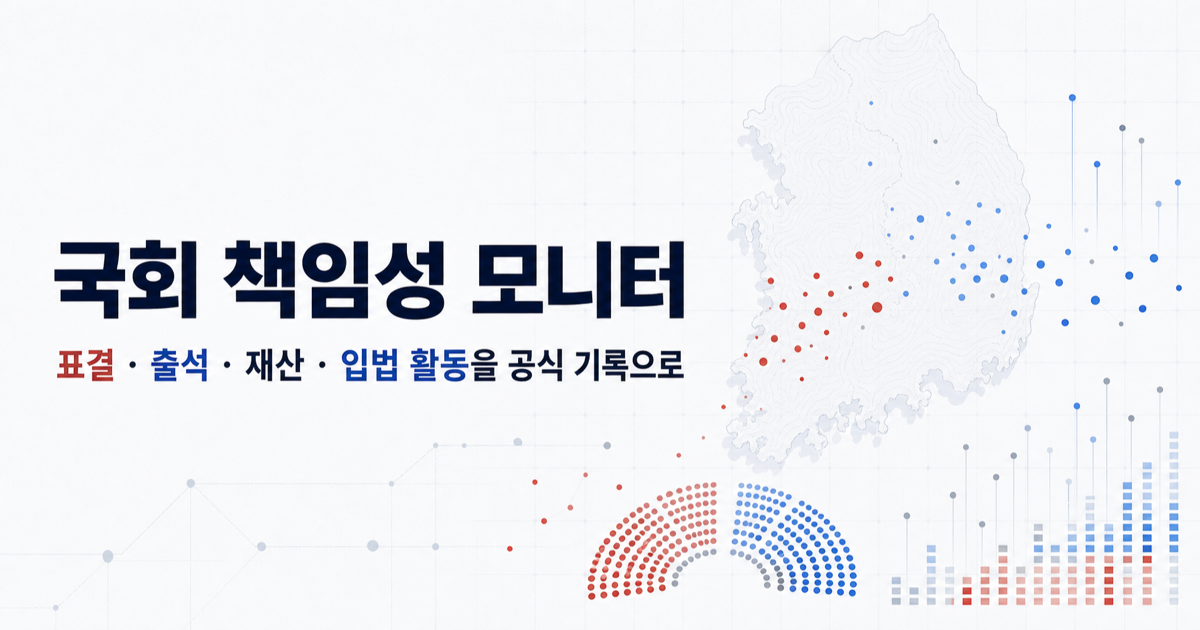
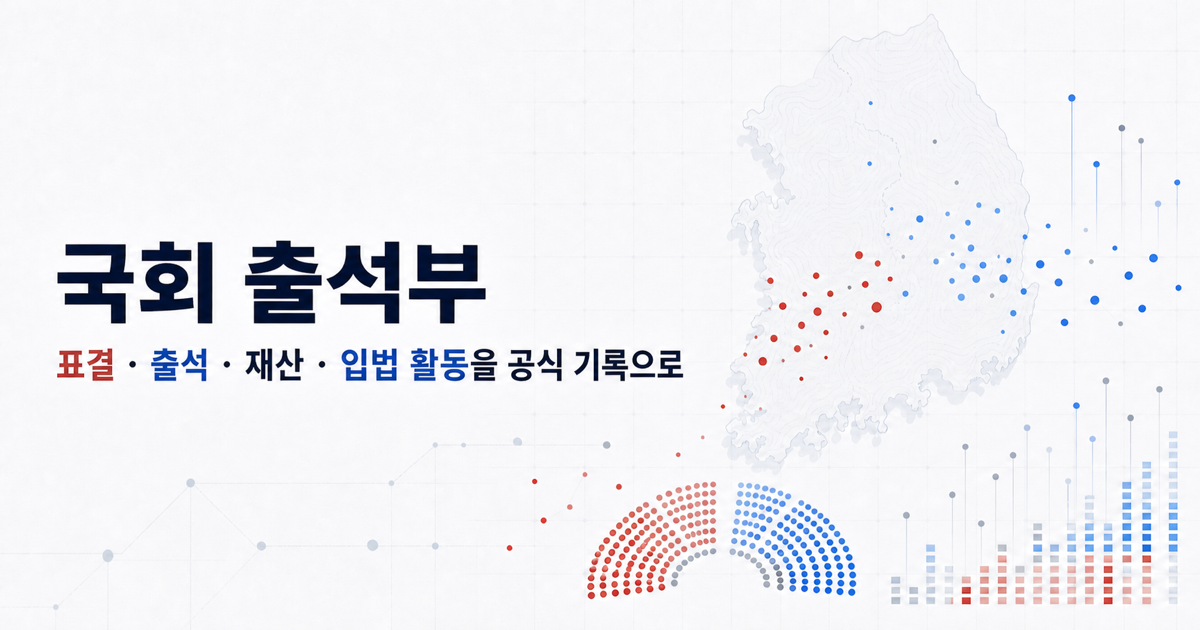
feat: rename service to 국회 출석부

diff --git a/apps/web/index.html b/apps/web/index.html
@@ -6,15 +6,15 @@
     <meta name="theme-color" content="#f7f9fb" />
     <link rel="icon" type="image/svg+xml" href="./favicon.svg?v=3" />
     <link rel="canonical" href="https://kuil09.github.io/lawmaker-monitor/" />
-    <title>국회 책임성 모니터</title>
+    <title>국회 출석부</title>
     <meta
       name="description"
-      content="표결·출석·재산·입법 활동을 공식 기록으로 확인하는 국회 책임성 모니터입니다."
+      content="표결·출석·재산·입법 활동을 공식 기록으로 확인하는 국회 출석부입니다."
     />
     <meta property="og:type" content="website" />
     <meta property="og:locale" content="ko_KR" />
-    <meta property="og:site_name" content="국회 책임성 모니터" />
-    <meta property="og:title" content="국회 책임성 모니터" />
+    <meta property="og:site_name" content="국회 출석부" />
+    <meta property="og:title" content="국회 출석부" />
     <meta
       property="og:description"
       content="표결·출석·재산·입법 활동을 공식 기록으로 확인하세요."
@@ -31,10 +31,10 @@
     <meta property="og:image:height" content="630" />
     <meta
       property="og:image:alt"
-      content="대한민국 지도와 국회 의석, 활동 데이터 시각화로 구성된 국회 책임성 모니터 공유 카드"
+      content="대한민국 지도와 국회 의석, 활동 데이터 시각화로 구성된 국회 출석부 공유 카드"
     />
     <meta name="twitter:card" content="summary_large_image" />
-    <meta name="twitter:title" content="국회 책임성 모니터" />
+    <meta name="twitter:title" content="국회 출석부" />
     <meta
       name="twitter:description"
       content="표결·출석·재산·입법 활동을 공식 기록으로 확인하세요."

diff --git a/tests/ui/app-ui.test.ts b/tests/ui/app-ui.test.ts
@@ -60,7 +60,7 @@ async function openHomeFlow(viewportName: string): Promise<void> {
       `
     });
 
-    await page.getByRole("heading", { name: "실시간 국회 감시 큐" }).waitFor();
+    await page.getByRole("heading", { name: "실시간 국회 출석부" }).waitFor();
     await page.getByRole("region", { name: "지역별 결석률 분포" }).waitFor();
     expect(new URL(page.url()).searchParams.has("ui")).toBe(false);
     expect(await page.locator(".v2-global-nav").count()).toBe(1);
@@ -286,7 +286,7 @@ async function openHomeFlow(viewportName: string): Promise<void> {
 
     await page.getByRole("button", { name: "홈으로" }).click();
     await expect.poll(() => new URL(page.url()).hash).toBe("");
-    await page.getByRole("heading", { name: "실시간 국회 감시 큐" }).waitFor();
+    await page.getByRole("heading", { name: "실시간 국회 출석부" }).waitFor();
 
     expect(getUnexpectedBrowserIssues(issues)).toEqual([]);
   } finally {
@@ -682,7 +682,7 @@ const v2Routes = [
   {
     id: "home",
     hash: "",
-    heading: "실시간 국회 감시 큐"
+    heading: "실시간 국회 출석부"
   },
   {
     id: "calendar",
@@ -983,7 +983,7 @@ async function openV2RouteFlow(viewportName: string): Promise<void> {
     await page.goto(`${appUrl}/?ui=v1`, {
       waitUntil: "networkidle"
     });
-    await page.getByRole("heading", { name: "실시간 국회 감시 큐" }).waitFor();
+    await page.getByRole("heading", { name: "실시간 국회 출석부" }).waitFor();
   } finally {
     await context.close();
   }

diff --git a/apps/web/src/components/WatchQueueSnapshot.tsx b/apps/web/src/components/WatchQueueSnapshot.tsx
@@ -460,8 +460,8 @@ export function WatchQueueSnapshot({
     >
       <header className="watch-queue-snapshot__heading">
         <div>
-          <p>WATCH QUEUE · 최근 수집 기록</p>
-          <h2 id="watch-queue-snapshot-title">시민 감시 큐</h2>
+          <p>국회 출석부 · 최근 수집 기록</p>
+          <h2 id="watch-queue-snapshot-title">국회 출석부</h2>
         </div>
         <p>
           최근 수집된 공개 기록을 변화·결과·행위 부재 기준으로 확인하고 공식
@@ -475,7 +475,7 @@ export function WatchQueueSnapshot({
       </header>
 
       <div className="watch-queue-workbench">
-        <aside className="watch-queue-filters" aria-label="감시 큐 필터">
+        <aside className="watch-queue-filters" aria-label="국회 출석부 필터">
           <div>
             <h3>증거 상태</h3>
             {filterLabels.map((filter) => (
@@ -623,7 +623,7 @@ export function WatchQueueSnapshot({
           ) : null}
         </div>
 
-        <aside className="watch-queue-briefing" aria-label="감시 큐 브리핑">
+        <aside className="watch-queue-briefing" aria-label="국회 출석부 브리핑">
           <section>
             <p>HOT ISSUES</p>
             <h3>지금 주목할 변화</h3>

diff --git a/apps/web/src/v2/V2GlobalNav.tsx b/apps/web/src/v2/V2GlobalNav.tsx
@@ -42,7 +42,7 @@ type PrimaryNavigationItem = {
 const primaryNavigationItems: PrimaryNavigationItem[] = [
   {
     index: "01",
-    label: "감시 큐",
+    label: "국회 출석부",
     accessibleLabel: "오늘의 변화",
     href: "#",
     target: "home",
@@ -156,14 +156,14 @@ export function V2GlobalNav({
           <a
             className="v2-global-nav__brand"
             href="#"
-            aria-label="국회 책임성 모니터 홈"
+            aria-label="국회 출석부 홈"
             onClick={(event) => handleNavigation(event, "home")}
           >
             <span className="v2-global-nav__brand-lockup" aria-hidden="true">
               <span className="v2-global-nav__brand-kicker">
-                국회 책임성 모니터
+                국회 공개 기록
               </span>
-              <strong>감시 큐</strong>
+              <strong>국회 출석부</strong>
             </span>
           </a>
 

diff --git a/apps/web/src/v2/V2App.tsx b/apps/web/src/v2/V2App.tsx
@@ -67,7 +67,7 @@ function useRouteAccessibility(route: RouteState) {
   useEffect(() => {
     const pageLabel =
       route.route === "home"
-        ? "감시 큐"
+        ? "국회 출석부"
         : route.route === "calendar"
           ? "의원 대장"
           : route.route === "distribution"
@@ -78,7 +78,7 @@ function useRouteAccessibility(route: RouteState) {
                 ? "변화 전후"
                 : "지역 감시";
 
-    document.title = `${pageLabel} · 감시 큐`;
+    document.title = `${pageLabel} · 국회 출석부`;
     const shouldMoveFocus =
       previousRouteRef.current !== null &&
       previousRouteRef.current !== route.route;

diff --git a/tests/web/v2-observatory.test.tsx b/tests/web/v2-observatory.test.tsx
@@ -125,7 +125,7 @@ describe("v2 observatory", () => {
     );
 
     const watchQueueHeading = screen.getByRole("heading", {
-      name: "시민 감시 큐"
+      name: "국회 출석부"
     });
     const explorerHeading = screen.getByRole("heading", {
       name: "전국 지표 탐색"
@@ -349,7 +349,7 @@ describe("v2 observatory", () => {
     );
 
     const brandLink = screen.getByRole("link", {
-      name: "국회 책임성 모니터 홈"
+      name: "국회 출석부 홈"
     });
     expect(brandLink.querySelector("svg")).not.toBeInTheDocument();
     expect(screen.getByRole("link", { name: "오늘의 변화" })).toHaveAttribute(

diff --git a/apps/web/src/v2/V2ObservatoryPage.tsx b/apps/web/src/v2/V2ObservatoryPage.tsx
@@ -676,10 +676,10 @@ export function V2ObservatoryPage({
       <header className="v2-observatory__hero">
         <div>
           <p className="v2-observatory__eyebrow">
-            WATCH QUEUE · {assemblyLabel} 공식 기록
+            국회 출석부 · {assemblyLabel} 공식 기록
           </p>
           <h1 className="v2-observatory__title" tabIndex={-1}>
-            실시간 국회 감시 큐
+            실시간 국회 출석부
           </h1>
           <p className="v2-observatory__intro">
             최근 발언·의안·표결의 변화와 행위 부재를 근거 단위로 비교하고

diff --git a/apps/web/src/components/MemberPerformanceShareCard.tsx b/apps/web/src/components/MemberPerformanceShareCard.tsx
@@ -101,7 +101,7 @@ export function MemberPerformanceShareCard({
               role="img"
               aria-label={`${member.name} 의원 실적 카드 미리보기`}
             >
-              <small>WATCH QUEUE · 의원 기록 카드</small>
+              <small>국회 출석부 · 의원 기록 카드</small>
               <strong>{member.name}</strong>
               <span>{affiliation}</span>
               <p>프로덕션 빌드에서 최신 공개 기록 카드가 생성됩니다.</p>

diff --git a/README.md b/README.md
@@ -1,6 +1,6 @@
-# Lawmaker Monitor
+# 국회 출석부
 
-Lawmaker Monitor is a public web app and data pipeline for tracking plenary vote activity and asset disclosure history in the National Assembly of Korea. The project collects official upstream data, normalizes it into stable datasets, publishes lightweight JSON exports, and renders those exports in a static client.
+국회 출석부 is a public web app and data pipeline for tracking plenary vote activity and asset disclosure history in the National Assembly of Korea. The project collects official upstream data, normalizes it into stable datasets, publishes lightweight JSON exports, and renders those exports in a static client.
 
 The current product is organized around two main views. The home view focuses on recent vote activity and accountability signals, while the calendar view helps readers inspect participation patterns, compare individual lawmakers over time, and review published asset disclosure history for current members of the 22nd Assembly.
 
